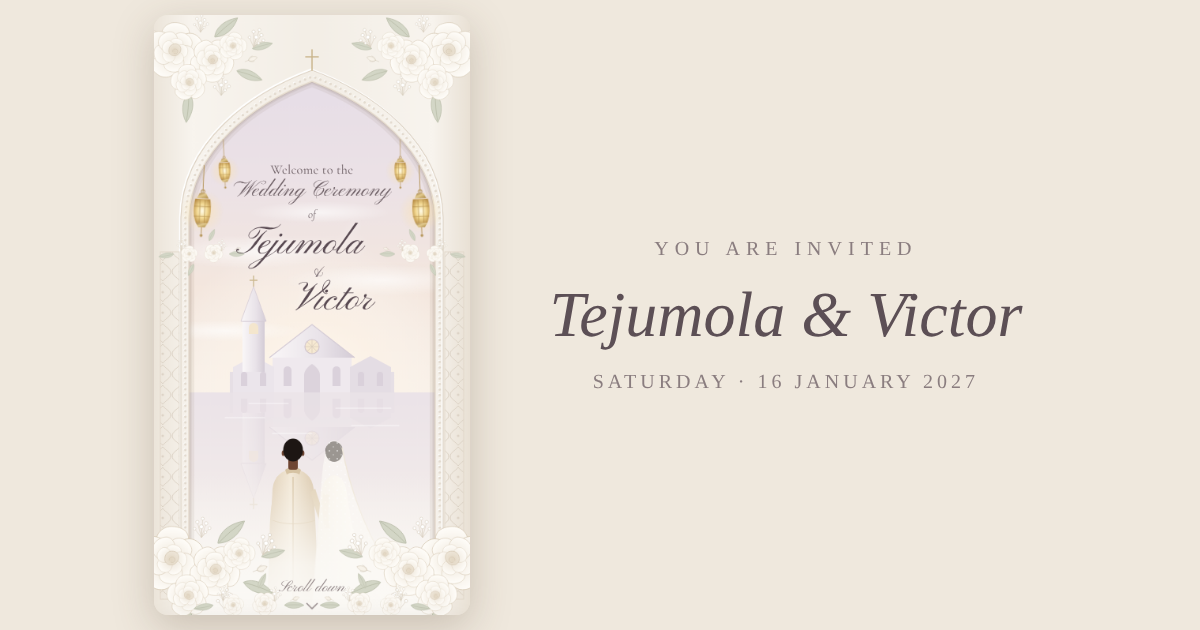
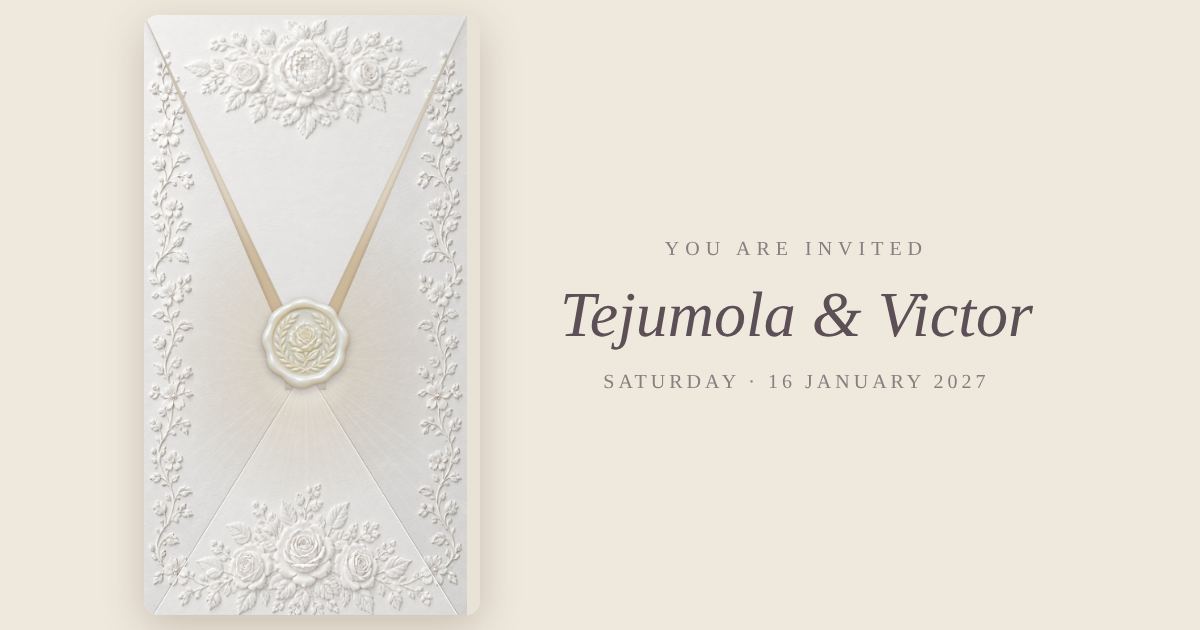
Use photo-real images for the envelope, hero, venue and timeline
- Envelope and flap are now real embossed white paper, with a glow map
  of its raised pattern for the light effect; the seal is real wax
- Hero is a photo-real arch and chapel scene, with a cut-out couple
  walking through it (restarts when the envelope opens)
- Venue photo and six painted timeline pictures replace the drawings
- Link-preview image refreshed

Claude-Session: https://claude.ai/code/session_019Y8RYyQqqMv7wxvoVF5rUY

diff --git a/index.html b/index.html
@@ -59,9 +59,11 @@ p{margin:0}
 .fw.top{perspective:6000px;perspective-origin:50% 50%;z-index:4;filter:drop-shadow(0 1.2px 1.2px rgba(70,62,55,.22)) drop-shadow(0 3px 7px rgba(70,62,55,.1))}
 .surf{position:absolute;inset:0}
 .surf svg{position:absolute;inset:0;width:100%;height:100%}
-.surf.body{clip-path:polygon(0 0,43.6% 53.3%,43.6% 61%,45.9% 61%,50% 57.5%,54.1% 61%,56.4% 61%,56.4% 53.3%,100% 0,100% 100%,0 100%);background-color:#e9e7e4;background-image:var(--tex,none),linear-gradient(180deg,#eeecea,#e5e2df);background-blend-mode:multiply}
+.surf.body{clip-path:polygon(0 0,43.6% 53.3%,43.6% 61%,45.9% 61%,50% 57.5%,54.1% 61%,56.4% 61%,56.4% 53.3%,100% 0,100% 100%,0 100%);background:#e9e8e6 url(img/paper.jpg) center/100% 100% no-repeat}
 .surf.body svg.crease{mix-blend-mode:normal}
-.surf.flap{clip-path:polygon(0 0,100% 0,50% 62%);background-color:#efedea;background-image:var(--tex,none),linear-gradient(180deg,#f4f2f0,#e9e7e4);background-blend-mode:multiply;transform-origin:50% 0;will-change:transform}
+.surf.flap{clip-path:polygon(0 0,100% 0,50% 62%);background:#eeedeb url(img/paper.jpg) center/100% 100% no-repeat;transform-origin:50% 0;will-change:transform}
+.surf.flap::after{content:"";position:absolute;inset:0;background:linear-gradient(180deg,rgba(255,255,255,.22),rgba(255,255,255,.06))}
+.surf .glint{position:absolute;inset:0;background:url(img/paper-glint.webp) center/100% 100% no-repeat}
 .emb{filter:drop-shadow(-.7px -.7px .3px rgba(255,255,255,.98)) drop-shadow(.8px 1px .7px rgba(100,92,86,.34))}
 @property --gr{syntax:'<percentage>';inherits:false;initial-value:0%}
 .glint{opacity:0;pointer-events:none;--gr:0%;filter:drop-shadow(0 0 1.5px #fff) drop-shadow(0 0 5px rgba(255,255,255,.95));
@@ -123,17 +125,17 @@ p{margin:0}
 
 /* ---------- hero ---------- */
 .hero{position:relative;container-type:inline-size;overflow:hidden;transition:transform 1.2s cubic-bezier(.2,.7,.2,1)}
-.hero-front{position:absolute;inset:0;width:100%;height:100%;pointer-events:none}
-.walk{position:absolute;left:30%;top:65.79%;width:67.5%;aspect-ratio:1;transform-origin:29.6% -8.1%;animation:walk 20s linear infinite;will-change:transform,opacity;pointer-events:none}
-.walk svg{display:block;width:100%;height:100%;overflow:visible}
+.hero-img{display:block;width:100%;height:auto}
+.walk{position:absolute;left:37.4%;top:67%;width:42%;transform-origin:30% -10%;animation:walk 22s linear infinite;will-change:transform,opacity;pointer-events:none}
+.walk img{display:block;width:100%;height:auto;filter:drop-shadow(0 6px 10px rgba(120,95,110,.22))}
+.hero-mist{position:absolute;left:0;right:0;bottom:0;height:16%;pointer-events:none;background:linear-gradient(180deg,rgba(251,249,245,0),rgba(251,249,245,.75) 55%,#fbf9f5)}
 .bob{transform-origin:35% 100%;animation:bob2 1.05s ease-in-out infinite alternate;will-change:transform}
-@keyframes walk{0%{opacity:0;transform:scale(1.2)}5%{opacity:1}90%{opacity:1}100%{opacity:0;transform:scale(.7)}}
+@keyframes walk{0%{opacity:0;transform:scale(1.14)}6%{opacity:1}88%{opacity:1}100%{opacity:0;transform:scale(.66)}}
 @keyframes bob2{from{transform:translateY(0) rotate(-.7deg)}to{transform:translateY(-1.1%) rotate(.7deg)}}
 body.locked .hero{transform:scale(1.04)}
-.hero>svg{display:block;width:100%;height:auto}
 .lan{position:absolute;height:auto;transform-origin:50% 2.2%;animation:swing 5s ease-in-out infinite alternate;will-change:transform;pointer-events:none}
 @keyframes swing{from{transform:rotate(-7deg)}to{transform:rotate(7deg)}}
-.hero-text{position:absolute;left:18%;right:18%;top:24.6%;text-align:center;color:var(--ink)}
+.hero-text{position:absolute;left:18%;right:18%;top:21.5%;text-align:center;color:var(--ink)}
 .hero-text .w{font-family:var(--serif);font-size:4.1cqw;letter-spacing:.02em;color:#6e6066;line-height:1.2}
 .hero-text .c{font-family:var(--script);font-size:7cqw;white-space:nowrap;line-height:1.15;color:#6e6066}
 .hero-text .of{font-family:var(--serif);font-style:italic;font-size:3.8cqw;margin:.6cqw 0 0;color:#7c6f74}
@@ -211,7 +213,7 @@ body.locked .hero{transform:scale(1.04)}
 .tl-item::after{content:"";position:absolute;left:50%;bottom:2px;width:6px;height:6px;margin-left:-3px;transform:rotate(45deg);border:1px solid var(--gold);background:var(--paper)}
 .tl-item:last-of-type::after{display:none}
 .tl-art{grid-column:1;grid-row:1;justify-self:center;width:100%;max-width:158px}
-.tl-art svg{display:block;width:100%;height:auto;overflow:visible}
+.tl-art img{display:block;width:118%;max-width:none;height:auto;margin:-9%}
 .tl-node{grid-column:2;grid-row:1;justify-self:center;width:28px;height:28px;position:relative}
 .tl-node svg{display:block;width:100%;height:100%}
 .tl-text{grid-column:3;grid-row:1;min-width:0;padding:0 4px}
@@ -233,7 +235,8 @@ body.locked .hero{transform:scale(1.04)}
 .places{display:flex;flex-direction:column;gap:26px;margin-top:22px}
 .place .venue{margin:4px 0 12px}
 .venue-art{position:relative;margin:26px calc(-1 * max(22px,env(safe-area-inset-left,0px))) 0}
-.venue-art svg{display:block;width:100%;height:auto}
+.venue-art img{display:block;width:100%;height:auto}
+.venue-art::before{content:"";position:absolute;left:0;right:0;top:0;height:34%;background:linear-gradient(180deg,#fbf9f5,rgba(251,249,245,0));pointer-events:none}
 
 /* ---------- closing ---------- */
 .closing .names{font-family:var(--script);font-size:46px;color:var(--ink);margin-top:6px}
@@ -362,12 +365,10 @@ body.locked .hero{transform:scale(1.04)}
     <div class="inlit" id="inlit"></div>
     <div class="fw body"><div class="surf body">
       <svg class="crease" viewBox="0 0 100 100" preserveAspectRatio="none" aria-hidden="true"><polygon points="0,100 50,57.5 100,100" fill="rgba(255,255,255,.2)"/><path d="M0 100L50 57.5L100 100" fill="none" stroke="rgba(90,80,70,.28)" stroke-width="1.6" vector-effect="non-scaling-stroke" transform="translate(0 -.12)"/><path d="M0 100L50 57.5L100 100" fill="none" stroke="rgba(255,255,255,.9)" stroke-width="1.2" vector-effect="non-scaling-stroke" transform="translate(0 .1)"/></svg>
-      <svg viewBox="0 0 430 900" preserveAspectRatio="xMidYMid slice" id="embBody"></svg>
-      <svg viewBox="0 0 430 900" preserveAspectRatio="xMidYMid slice" class="glint" id="glBody"></svg>
+      <div class="glint"></div>
     </div></div>
     <div class="fw top"><div class="surf flap" id="flapT">
-      <svg viewBox="0 0 430 900" preserveAspectRatio="xMidYMid slice" id="embFlap"></svg>
-      <svg viewBox="0 0 430 900" preserveAspectRatio="xMidYMid slice" class="glint" id="glFlap"></svg>
+      <div class="glint"></div>
     </div></div>
     <div class="sheen" id="sheen"></div>
     <div class="warm" id="warm"></div>
@@ -383,12 +384,9 @@ body.locked .hero{transform:scale(1.04)}
           <linearGradient id="shineG" x1="0" y1="0" x2="1" y2="0"><stop offset=".3" stop-color="#fff" stop-opacity="0"/><stop offset=".5" stop-color="#fff" stop-opacity=".9"/><stop offset=".7" stop-color="#fff" stop-opacity="0"/></linearGradient>
           <radialGradient id="sealGlow"><stop offset="0" stop-color="#fff"/><stop offset=".6" stop-color="#fff" stop-opacity=".9"/><stop offset="1" stop-color="#fff" stop-opacity=".25"/></radialGradient>
         </defs>
-        <path id="sealBlob" fill="url(#wax)" stroke="rgba(150,145,165,.35)" stroke-width=".8"/>
-        <circle r="37" fill="url(#wax2)"/>
-        <circle r="37" fill="none" stroke="rgba(255,255,255,.95)" stroke-width="1.6" transform="translate(-.9 -.9)"/>
-        <circle r="37" fill="none" stroke="rgba(110,105,125,.35)" stroke-width="1.6" transform="translate(.9 .9)"/>
-        <g id="sealWreath" class="emb" fill="#efedf0" stroke="rgba(130,125,145,.4)" stroke-width=".6"></g>
-        <text id="sealInit" class="emb" y="2" text-anchor="middle" dominant-baseline="middle" font-family="Pinyon Script, cursive" font-size="25" fill="#ecebef" stroke="rgba(120,115,135,.45)" stroke-width=".5">T&amp;V</text>
+        <path id="sealBlob" fill="none"/>
+        <image href="img/seal.webp" x="-58" y="-60" width="116" height="120" preserveAspectRatio="xMidYMid meet"/>
+        <g id="sealWreath" style="display:none"></g><text id="sealInit" style="display:none"></text>
         <circle class="sglow" r="38" fill="url(#sealGlow)"/>
         <g class="orbit" fill="none" stroke="#fff" stroke-linecap="round"><circle r="39" stroke-width="18" stroke-opacity=".35" stroke-dasharray="100 245"/><circle r="39" stroke-width="15" stroke-opacity=".65" stroke-dasharray="62 245" stroke-dashoffset="-38"/><circle r="39" stroke-width="12" stroke-dasharray="30 245" stroke-dashoffset="-70"/></g>
         <g clip-path="url(#sealClip)"><g class="shine"><rect x="-60" y="-60" width="120" height="120" fill="url(#shineG)" transform="rotate(-25)"/></g></g>
@@ -407,7 +405,7 @@ body.locked .hero{transform:scale(1.04)}
 <main class="col paper-tex" id="main">
 
   <section class="hero" aria-label="Welcome">
-    <svg viewBox="0 0 400 760" id="heroSvg" role="img" aria-label="A couple walking toward a white chapel, framed by a carved ivory arch with lanterns and roses">
+    <svg class="defs" id="heroSvg" aria-hidden="true" focusable="false">
       <defs>
         <clipPath id="win"><path d="M44 760V262C44 170 130 110 200 84C270 110 356 170 356 262V760Z"/></clipPath>
         <linearGradient id="sky" x1="0" y1="0" x2="0" y2="1">
@@ -473,67 +471,14 @@ body.locked .hero{transform:scale(1.04)}
         </g>
       </defs>
 
-      <rect width="400" height="760" fill="#fbf9f5"/>
-      <g clip-path="url(#win)">
-        <rect width="400" height="480" fill="url(#sky)"/>
-        <rect width="400" height="760" fill="url(#sun)"/>
-        <g fill="url(#cloud)" opacity=".75">
-          <ellipse cx="120" cy="300" rx="110" ry="22"/><ellipse cx="290" cy="336" rx="130" ry="20"/><ellipse cx="210" cy="250" rx="90" ry="14"/><ellipse cx="90" cy="400" rx="100" ry="14"/>
-        </g>
-        <rect y="478" width="400" height="282" fill="url(#water)"/>
-        <use href="#church"/>
-        <use href="#church" transform="translate(0 956) scale(1 -1)" opacity=".28"/>
-        <g stroke="#fff" stroke-linecap="round" opacity=".7">
-          <path d="M120 492H170M230 498H300M90 510H140M250 520H310M150 530H200" stroke-width="1.2"/>
-        </g>
-      </g>
     </svg>
-    <div class="walk" aria-hidden="true"><div class="bob"><svg viewBox="120 500 270 270">
-        <g>
-          <ellipse cx="200" cy="772" rx="90" ry="10" fill="#e6dcd3" opacity=".6"/>
-          <path d="M152 602C146 630 145 660 148 690L156 690C155 660 156 632 160 608Z" fill="#e1d1b6"/>
-          <path d="M150 600C152 584 162 576 176 575C190 576 200 584 202 600L206 680L210 770H142L146 680Z" fill="url(#coat)"/>
-          <path d="M176 585V770" stroke="#cdb894" stroke-width="1"/>
-          <path d="M150 640C165 646 188 646 204 640" stroke="#d5c29f" stroke-width=".8" fill="none"/>
-          <path d="M198 604C204 625 208 640 214 650L220 646C214 632 210 618 204 600Z" fill="#e1d1b6"/>
-          <path d="M166 576C170 572 182 572 186 576L184 582C180 579 172 579 168 582Z" fill="#d6c3a3"/>
-          <rect x="170" y="562" width="12" height="14" rx="3" fill="#6f4632"/>
-          <ellipse cx="163.6" cy="555" rx="2" ry="3.6" fill="#6f4632"/><ellipse cx="188.4" cy="555" rx="2" ry="3.6" fill="#6f4632"/>
-          <ellipse cx="176" cy="551" rx="12.5" ry="14.5" fill="#1d1613"/>
-          <path d="M212 604C214 590 220 584 228 583C236 584 242 590 244 604C250 650 258 700 300 760L310 770H198C202 720 206 660 212 604Z" fill="url(#gown)"/>
-          <path d="M214 606C212 625 214 640 216 650L222 650C220 636 220 622 222 608Z" fill="#efe5d6"/>
-          <ellipse cx="228" cy="553" rx="11" ry="13" fill="#231a16"/>
-          <path d="M218 548C220 536 236 536 238 548C246 590 264 650 302 708C324 740 352 758 378 770H200C205 700 209 620 214 570Z" fill="#fffdf8" opacity=".55"/>
-          <path d="M218 548C220 536 236 536 238 548C246 590 264 650 302 708C324 740 352 758 378 770H200C205 700 209 620 214 570Z" fill="url(#lace)" opacity=".7"/>
-          <path d="M238 548C246 590 264 650 302 708C324 740 352 758 378 770" fill="none" stroke="#efe7da" stroke-width="1.4"/>
-        </g>
-    </svg></div></div>
-    <svg class="hero-front" viewBox="0 0 400 760" aria-hidden="true">
-      <g clip-path="url(#win)">
-        <rect y="580" width="400" height="180" fill="url(#fadeB)"/>
-        <g fill="none"><path d="M44 760V262C44 170 130 110 200 84C270 110 356 170 356 262V760" stroke="rgba(110,90,70,.08)" stroke-width="14"/><path d="M44 760V262C44 170 130 110 200 84C270 110 356 170 356 262V760" stroke="rgba(110,90,70,.1)" stroke-width="7"/><path d="M44 760V262C44 170 130 110 200 84C270 110 356 170 356 262V760" stroke="rgba(110,90,70,.14)" stroke-width="3"/></g>
-      </g>
-
-      <!-- carved frame -->
-      <path fill-rule="evenodd" fill="url(#stone)" d="M0 0H400V760H0ZM44 760V262C44 170 130 110 200 84C270 110 356 170 356 262V760Z"/>
-      <g fill="none" stroke-linecap="round">
-        <path d="M34 760V260C34 160 124 98 200 70C276 98 366 160 366 260V760" stroke="#ffffff" stroke-width="2.4" transform="translate(-1 -1)"/>
-        <path d="M34 760V260C34 160 124 98 200 70C276 98 366 160 366 260V760" stroke="#ddd2c3" stroke-width="1.2"/>
-        <path d="M39 760V261C39 165 127 104 200 77C273 104 361 165 361 261V760" stroke="#fff" stroke-width="3.2" stroke-dasharray="0 7"/>
-        <path d="M39 760V261C39 165 127 104 200 77C273 104 361 165 361 261V760" stroke="#d8cdbd" stroke-width="3.2" stroke-dasharray="0 7" transform="translate(.6 .8)" opacity=".7"/>
-        <path d="M44 760V262C44 170 130 110 200 84C270 110 356 170 356 262V760" stroke="#e7ddcf" stroke-width="1.5"/>
-        <path d="M200 70V44M192 53H208" stroke="#c9b48a" stroke-width="1.6"/>
-      </g>
-            <rect x="8" y="300" width="24" height="440" fill="url(#jali)" stroke="#e1d7c9"/>
-      <rect x="368" y="300" width="24" height="440" fill="url(#jali)" stroke="#e1d7c9"/>
-
-
-      <g id="heroFlora"></g>
-    </svg>
-    <svg class="lan" viewBox="-30 -2 60 92" style="left:6.12%;top:24.93%;width:18.75%;animation-duration:2.9s;animation-delay:-0s" aria-hidden="true"><use href="#lantern"/></svg>
-    <svg class="lan" viewBox="-30 -2 60 92" style="left:15.40%;top:20.43%;width:13.20%;animation-duration:2.4s;animation-delay:-0.9s" aria-hidden="true"><use href="#lantern"/></svg>
-    <svg class="lan" viewBox="-30 -2 60 92" style="left:75.12%;top:24.93%;width:18.75%;animation-duration:2.7s;animation-delay:-1.4s" aria-hidden="true"><use href="#lantern"/></svg>
-    <svg class="lan" viewBox="-30 -2 60 92" style="left:71.40%;top:20.43%;width:13.20%;animation-duration:2.5s;animation-delay:-0.4s" aria-hidden="true"><use href="#lantern"/></svg>
+    <img class="hero-img" src="img/hero.jpg" width="864" height="1536" alt="A carved ivory arch dressed with white roses, looking across a reflecting pool to a white chapel at sunrise">
+    <div class="walk" aria-hidden="true"><div class="bob"><img src="img/couple.webp" width="520" height="658" alt=""></div></div>
+    <div class="hero-mist" aria-hidden="true"></div>
+    <svg class="lan" viewBox="-30 -2 60 92" style="left:11.00%;top:15.5%;width:13%;animation-duration:2.9s;animation-delay:-0s" aria-hidden="true"><use href="#lantern"/></svg>
+    <svg class="lan" viewBox="-30 -2 60 92" style="left:21.25%;top:9.5%;width:9.5%;animation-duration:2.4s;animation-delay:-0.9s" aria-hidden="true"><use href="#lantern"/></svg>
+    <svg class="lan" viewBox="-30 -2 60 92" style="left:76.00%;top:15.5%;width:13%;animation-duration:2.7s;animation-delay:-1.4s" aria-hidden="true"><use href="#lantern"/></svg>
+    <svg class="lan" viewBox="-30 -2 60 92" style="left:69.25%;top:9.5%;width:9.5%;animation-duration:2.5s;animation-delay:-0.4s" aria-hidden="true"><use href="#lantern"/></svg>
     <div class="hero-text">
       <div class="w">Welcome to the</div>
       <div class="c" data-k="ceremony"></div>
@@ -644,7 +589,7 @@ body.locked .hero{transform:scale(1.04)}
       <div class="place rv"><p class="lab">Reception · <span data-k="receptionTime"></span></p><p class="venue"><span data-k="receptionVenue"></span><br><span data-k="receptionAddr"></span></p>
         <a class="btn" id="mapBtn2" target="_blank" rel="noopener"><svg viewBox="0 0 24 24" fill="none" stroke="currentColor" stroke-width="1.6" aria-hidden="true"><path d="M12 21s-7-6.2-7-11.5A7 7 0 0 1 19 9.5C19 14.8 12 21 12 21z"/><circle cx="12" cy="9.5" r="2.5"/></svg>Open in Maps</a></div>
     </div>
-    <div class="venue-art rv"><svg viewBox="0 0 400 260" id="venueSvg" role="img" aria-label="Illustration of the venue at dusk, framed by palm trees"></svg></div>
+    <div class="venue-art rv"><img src="img/venue.jpg" width="1200" height="800" loading="lazy" alt="The reception venue at dusk, lit warmly behind palm trees and a reflecting pool"></div>
   </section>
 
   <!-- Closing -->
@@ -794,30 +739,6 @@ function sprig(x, y, s, rot, flip = 1) {
   return p + '<circle cx="0" cy="4" r="1.4"/></g>';
 }
 
-/* ---------- envelope embossing ---------- */
-(() => {
-  const P2 = { rose: 'fill="#ebe9e6"', leaf: 'fill="#ebe9e6"', bud: 'fill="#ebe9e6"', gyp: 'fill="#ebe9e6"' };
-  const bead = d => `<path d="${d}" fill="none" stroke="#ebe9e6" stroke-width="3" stroke-dasharray="0 8" stroke-linecap="round"/>`;
-  const dots = (n, x0, x1, y0, y1, seed) => { let r = seed, o = ''; const rnd = () => (r = (r * 9301 + 49297) % 233280) / 233280;
-    for (let i = 0; i < n; i++) o += `<use href="#gyp" ${P2.gyp} transform="translate(${(x0 + rnd() * (x1 - x0)).toFixed(0)} ${(y0 + rnd() * (y1 - y0)).toFixed(0)}) rotate(${(rnd() * 60 - 30).toFixed(0)}) scale(${(.5 + rnd() * .4).toFixed(2)})"/>`; return o; };
-  const body =
-    sprig(26, 330, 1.35, 6) + sprig(20, 560, 1.45, -3) + sprig(34, 770, 1.15, 8) + sprig(70, 470, .9, 14) + sprig(64, 690, .8, -10) +
-    sprig(404, 330, 1.35, -6, -1) + sprig(410, 560, 1.45, 3, -1) + sprig(396, 770, 1.15, -8, -1) + sprig(360, 470, .9, -14, -1) + sprig(366, 690, .8, 10, -1) +
-    cluster('spray', 92, 610, .75, 1, P2) + cluster('spray', 338, 610, .75, -1, P2) +
-    cluster('medallion', 215, 800, 1.65, 1, P2) + cluster('spray', 100, 872, 1.05, 1, P2) + cluster('spray', 330, 872, 1.05, -1, P2) +
-    cluster('corner', 18, 880, .55, 1, P2) + cluster('corner', 412, 880, .55, -1, P2) +
-    dots(9, 60, 170, 380, 760, 7) + dots(9, 260, 370, 380, 760, 11) + dots(5, 130, 300, 640, 720, 3) +
-    '';
-  const flap =
-    cluster('medallion', 215, 118, 1.5, 1, P2) + cluster('spray', 215, 262, 1, 1, P2) + cluster('spray', 215, 360, .7, 1, P2) +
-    sprig(70, 40, 1, 55) + sprig(360, 40, 1, -55, -1) + cluster('spray', 110, 150, .6, 1, P2) + cluster('spray', 320, 150, .6, -1, P2) +
-    dots(8, 120, 310, 190, 430, 5) + bead('M30 0L215 520L400 0');
-  const wrap = s => `<g class="emb" fill="#ebe9e6" stroke="rgba(120,112,104,.3)" stroke-width=".9">${s}</g>`;
-  const glow = s => `<g fill="#ffffff" stroke="#ffffff" stroke-width="1.2">${s}</g>`;
-  $('#embBody').innerHTML = wrap(body); $('#glBody').innerHTML = glow(body);
-  $('#embFlap').innerHTML = wrap(flap); $('#glFlap').innerHTML = glow(flap);
-})();
-
 /* ---------- wax seal ---------- */
 (() => {
   let d = '';
@@ -835,12 +756,7 @@ function sprig(x, y, s, rot, flip = 1) {
   $('#sealWreath').innerHTML = w + '<circle r="30" fill="none"/>';
 })();
 
-/* ---------- hero florals ---------- */
-$('#heroFlora').innerHTML =
-  cluster('corner', 26, 46, .82) + cluster('corner', 374, 46, .82, -1) +
-  cluster('spray', 60, 300, .7) + cluster('spray', 340, 300, .7, -1) +
-  cluster('corner', 22, 690, .95) + cluster('corner', 378, 690, .95, -1) +
-  cluster('spray', 120, 744, .9) + cluster('spray', 280, 744, .9, -1);
+/* ---------- florals ---------- */
 $$('.flora-corner').forEach(g => g.innerHTML = cluster('corner', 30, 20, 1));
 
 /* ---------- timeline ---------- */
@@ -889,60 +805,14 @@ const ICONS = {
     ${star(70, 14, 1.3)}${star(56, 8, .6)}${star(86, 6, .7)}<path d="M64 22L60 16M76 22L80 16M70 24V18" stroke-width=".8"/>
     <path d="M58 98C64 92 76 92 82 98" fill="none"/>${goldRose(70, 98, .14)}${base()}`
 };
-const icon = k => `<svg viewBox="0 0 140 118" aria-hidden="true"><g fill="none" stroke="#b08f55" stroke-width="1.1" stroke-linecap="round" stroke-linejoin="round">${ICONS[k] || ICONS.gate}</g></svg>`;
+const PICS = { gate: 'gate', church: 'church', bride: 'couple', couple: 'couple', cloche: 'cloche', cake: 'cake', toast: 'toast' };
+const icon = k => `<img src="img/t-${PICS[k] || 'gate'}.webp" width="480" height="480" loading="lazy" alt="">`;
 const node = `<svg viewBox="-14 -14 28 28" aria-hidden="true"><circle r="12.5" fill="url(#medal)" opacity=".35"/><circle r="9" fill="#fffaf0" stroke="#b08f55" stroke-width=".8"/>${goldRose(0, 0, .17).replace('stroke-width="3"', 'stroke-width="4"')}</svg>`;
 const tl = $('#tl');
 const esc = s => String(s).replace(/[&<>"]/g, c => ({ '&': '&amp;', '<': '&lt;', '>': '&gt;', '"': '&quot;' }[c]));
 tl.insertAdjacentHTML('beforeend', CONFIG.timeline.map(t =>
   `<div class="tl-item rv"><div class="tl-art">${icon(t.icon)}</div><span class="tl-node">${node}</span><div class="tl-text"><div class="tl-time">${esc(t.time)}</div><div class="tl-label">${esc(t.label)}</div></div></div>`).join('') +
   `<svg class="tl-end" viewBox="0 0 30 44" aria-hidden="true"><g fill="none" stroke="currentColor" stroke-width="1"><path d="M15 0V14"/><g transform="translate(15 22)"><circle r="6"/><path d="M-2 0a2 2 0 1 1 2 2a3.6 3.6 0 1 1-3.6-3.6"/><path d="M5 3C9 2 12 4 13 7C9 8 6 6 5 3ZM-5 3C-9 2-12 4-13 7C-9 8-6 6-5 3Z"/></g><path d="M15 28V36M12 36L15 42L18 36Z"/></g></svg>`);
-
-/* ---------- venue illustration ---------- */
-(() => {
-  const frond = (tx, ty, deg, L) => {
-    const a = deg * Math.PI / 180, c = Math.cos(a), s = Math.sin(a);
-    const ex = tx + c * L, ey = ty + s * L + L * .42, mx = tx + c * L * .55, my = ty + s * L * .55 - L * .1, w = L * .13, nx = -s, ny = c;
-    return `M${tx} ${ty}Q${(mx + nx * w).toFixed(1)} ${(my + ny * w).toFixed(1)} ${ex.toFixed(1)} ${ey.toFixed(1)}Q${(mx - nx * w).toFixed(1)} ${(my - ny * w).toFixed(1)} ${tx} ${ty}Z`;
-  };
-  const palm = (x, base, h, lean, col, L) => {
-    const tx = x + lean, ty = base - h;
-    let g = `<path d="M${x} ${base}Q${x + lean * .3} ${base - h * .5} ${tx} ${ty}" stroke="${col}" stroke-width="${L / 9}" fill="none" stroke-linecap="round"/><g fill="${col}">`;
-    for (const d of [-172, -145, -118, -92, -66, -40, -10, 160, 20]) g += `<path d="${frond(tx, ty, d, L * (d > 100 || d === 20 ? .8 : 1))}"/>`;
-    return g + '</g>';
-  };
-  let arches = '';
-  for (let i = 0; i < 9; i++) { const x = 80 + i * 27.5; arches += `<path d="M${x} 214V186C${x} 178 ${x + 9} 172 ${x + 9} 172C${x + 9} 172 ${x + 18} 178 ${x + 18} 186V214Z" fill="url(#lit)"/>`; }
-  let wins = '';
-  for (let i = 0; i < 9; i++) { const x = 84 + i * 27.5; wins += `<path d="M${x} 156V142C${x} 138 ${x + 5} 135 ${x + 5} 135C${x + 5} 135 ${x + 10} 138 ${x + 10} 142V156Z" fill="url(#lit)" opacity=".9"/>`; }
-  let merl = 'M66 118';
-  for (let x = 66; x < 334; x += 8) merl += `h4v-5h4v5`;
-  $('#venueSvg').innerHTML = `
-    <defs>
-      <linearGradient id="dusk" x1="0" y1="0" x2="0" y2="1"><stop offset="0" stop-color="#b9c4d2"/><stop offset=".55" stop-color="#e3d6cb"/><stop offset="1" stop-color="#f2d4b0"/></linearGradient>
-      <radialGradient id="lit" cx=".5" cy=".7" r=".8"><stop offset="0" stop-color="#fff1c9"/><stop offset=".6" stop-color="#f3c57c"/><stop offset="1" stop-color="#c88f4b"/></radialGradient>
-      <linearGradient id="wall" x1="0" y1="0" x2="1" y2="0"><stop offset="0" stop-color="#e2c9a6"/><stop offset=".6" stop-color="#d4b68e"/><stop offset="1" stop-color="#bf9f78"/></linearGradient>
-      <linearGradient id="topFade" x1="0" y1="0" x2="0" y2="1"><stop offset="0" stop-color="#fbf9f5"/><stop offset="1" stop-color="#fbf9f5" stop-opacity="0"/></linearGradient>
-      <linearGradient id="pool" x1="0" y1="0" x2="0" y2="1"><stop offset="0" stop-color="#9fb0bd"/><stop offset="1" stop-color="#d7cdbf"/></linearGradient>
-    </defs>
-    <rect width="400" height="260" fill="url(#dusk)"/>
-    <circle cx="200" cy="200" r="120" fill="#fff4dc" opacity=".35"/>
-    ${palm(140, 150, 70, -6, '#8c9488', 42)}${palm(262, 150, 76, 8, '#8c9488', 44)}
-    <rect x="66" y="118" width="268" height="100" fill="url(#wall)"/>
-    <path d="${merl}" fill="#d8bc95"/>
-    <rect x="66" y="160" width="268" height="5" fill="#c9a77d"/>
-    <rect x="156" y="70" width="88" height="48" fill="url(#wall)"/>
-    <path d="M156 70h88v-6h-88z" fill="#c9a77d"/>
-    <path d="M186 118V92C186 84 200 78 200 78C200 78 214 84 214 92V118Z" fill="url(#lit)"/>
-    <rect x="96" y="84" width="24" height="34" fill="#dcc29e"/><rect x="280" y="84" width="24" height="34" fill="#cfb38c"/>
-    <path d="M102 112V98a6 6 0 0 1 12 0v14zM286 112V98a6 6 0 0 1 12 0v14z" fill="url(#lit)" opacity=".85"/>
-    ${wins}${arches}
-    <rect y="216" width="400" height="44" fill="#6b765f"/>
-    <rect x="110" y="224" width="180" height="22" rx="2" fill="url(#pool)"/>
-    <g fill="#ffe3a8">${[90, 130, 170, 230, 270, 310].map(x => `<circle cx="${x}" cy="221" r="1.6"/>`).join('')}</g>
-    <path d="M110 230H290M130 238H270" stroke="#fff3d8" stroke-width=".8" opacity=".6"/>
-    ${palm(46, 260, 170, 10, '#3f4a3c', 66)}${palm(88, 260, 120, -4, '#465243', 50)}${palm(352, 260, 160, -10, '#3f4a3c', 64)}${palm(318, 260, 110, 4, '#465243', 46)}
-    <rect width="400" height="70" fill="url(#topFade)"/>`;
-})();
 
 /* ---------- links ---------- */
 (() => {
@@ -1246,6 +1116,7 @@ function armReveals() {
     if (!reduced) [[10, 40], [88, 44], [14, 58], [86, 60], [8, 72], [92, 74], [18, 84], [82, 86], [30, 66], [70, 66]].forEach(([x, y], i) => spark(x, y, .15 + i * .08));
     await wait(1500);
     // 4. crossfade into the invitation
+    const wk = $('.walk'); if (wk) { wk.style.animation = 'none'; void wk.offsetWidth; wk.style.animation = ''; }
     env.classList.add('gone'); document.body.classList.remove('locked');
     window.scrollTo(0, 0); armReveals(); Smooth.resume();
     setTimeout(() => env.remove(), 1000);
